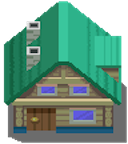
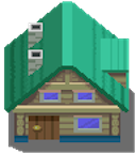
added all location entrance positions

diff --git a/src/covid_smasher.js b/src/covid_smasher.js
@@ -121,22 +121,22 @@ function COVID_SMASHER() {
         ctx.drawImage(home, 0, -48 + locations_module.TOP_BUFFER);
 
         let neighbor = document.getElementById("neighbor");
-        ctx.drawImage(neighbor, 128, -16 + locations_module.TOP_BUFFER);
+        ctx.drawImage(neighbor, 128, -24 + locations_module.TOP_BUFFER);
 
         let city_hall = document.getElementById("city-hall");
         ctx.drawImage(city_hall, 256, -56 + locations_module.TOP_BUFFER);
 
         let store_1 = document.getElementById("store-1");
-        ctx.drawImage(store_1, 512, 16 + locations_module.TOP_BUFFER);
+        ctx.drawImage(store_1, 496, -12 + locations_module.TOP_BUFFER);
 
         let store_2 = document.getElementById("store-2");
-        ctx.drawImage(store_2, 672, -8 + locations_module.TOP_BUFFER);
+        ctx.drawImage(store_2, 666, -8 + locations_module.TOP_BUFFER);
 
         let store_3 = document.getElementById("store-3");
-        ctx.drawImage(store_3, 832, 8 + locations_module.TOP_BUFFER);
+        ctx.drawImage(store_3, 832, -4 + locations_module.TOP_BUFFER);
 
         let store_4 = document.getElementById("store-4");
-        ctx.drawImage(store_4, 992, 32 + locations_module.TOP_BUFFER);
+        ctx.drawImage(store_4, 983, 8 + locations_module.TOP_BUFFER);
 
         let tree_1 = document.getElementById("tree-1");
         ctx.drawImage(tree_1, 1152, 32 + locations_module.TOP_BUFFER);
@@ -214,11 +214,47 @@ function COVID_SMASHER() {
                     if (locations_module.WORLD_MAP[player.y_pos][player.x_pos] === 2) {
                         if (player.x_pos === 1 && player.y_pos === 4) {
                             alert("Arrived home!");
+                        } else if (player.x_pos === 2 && player.y_pos === 4) {
+                            alert("Arrived home!");
                         } else if (player.x_pos === 5 && player.y_pos === 4) {
                             alert("Arrived at Neighbor's house!");
                         } else if (player.x_pos === 12 && player.y_pos === 4) {
                             alert("Arrived at City Hall!");
-                        }
+                        } else if (player.x_pos === 17 && player.y_pos === 4) {
+                            alert("Arrived at Store 1!");
+                        } else if (player.x_pos === 23 && player.y_pos === 4) {
+                            alert("Arrived at Store 2!");
+                        } else if (player.x_pos === 28 && player.y_pos === 4) {
+                            alert("Arrived at Store 3!");
+                        } else if (player.x_pos === 33 && player.y_pos === 4) {
+                            alert("Arrived at Store 4!");
+                        } else if (player.x_pos === 2 && player.y_pos === 13) {
+                            alert("Arrived at Library!");
+                        } else if (player.x_pos === 23 && player.y_pos === 11) {
+                            alert("Arrived at Object Garden!");
+                        } else if (player.x_pos === 27 && player.y_pos === 11) {
+                            alert("Arrived at Cin-n-cout!");
+                        } else if (player.x_pos === 28 && player.y_pos === 11) {
+                            alert("Arrived at Cin-n-cout!");
+                        } else if (player.x_pos === 29 && player.y_pos === 11) {
+                            alert("Arrived at Cin-n-cout!");
+                        } else if (player.x_pos === 32 && player.y_pos === 11) {
+                            alert("Arrived at Foobar!");
+                        } else if (player.x_pos === 37 && player.y_pos === 11) {
+                            alert("Arrived at Game Corner!");
+                        } else if (player.x_pos === 7 && player.y_pos === 22) {
+                            alert("Arrived at High School!");
+                        } else if (player.x_pos === 14 && player.y_pos === 21) {
+                            alert("Arrived at DayJob!");
+                        } else if (player.x_pos === 18 && player.y_pos === 21) {
+                            alert("Arrived at Gymnasium!");
+                        } else if (player.x_pos === 22 && player.y_pos === 21) {
+                            alert("Arrived at Hospital!");
+                        } else if (player.x_pos === 24 && player.y_pos === 21) {
+                            alert("Arrived at College!");
+                        } else if (player.x_pos === 24 && player.y_pos === 22) {
+                            alert("Arrived at College!");
+                        } 
                     }
                     break;
                 default:

diff --git a/src/base_classes/locations.js b/src/base_classes/locations.js
@@ -156,16 +156,16 @@ const WORLD_MAP =
     [1,1,1,1,1,1,1,1,1,1,1,1,1,1,1,1,1,1,1,1,1,1,1,1,1,1,1,1,1,1,1,1,1,1,1,1,1,1,1,1,],
     [1,1,1,1,1,1,1,1,1,1,1,1,1,1,1,1,1,1,1,1,1,1,1,1,1,1,1,1,1,1,1,1,1,1,1,1,1,1,1,1,],
     [1,1,1,1,1,1,1,1,1,1,1,1,1,1,1,1,1,1,1,1,1,1,1,1,1,1,1,1,1,1,1,1,1,1,1,1,1,1,1,1,],
-    [0,2,0,0,0,2,0,0,0,0,0,0,2,0,0,0,0,0,0,0,0,0,0,0,0,0,0,0,0,0,0,0,0,0,0,0,0,0,0,0,],
+    [0,2,2,0,0,2,0,0,0,0,0,0,2,0,0,0,0,2,0,0,0,0,0,2,0,0,0,0,2,0,0,0,0,2,0,0,0,0,0,0,],
     [0,0,0,0,0,0,0,0,0,0,0,0,0,0,0,0,0,0,0,0,0,0,0,0,0,0,0,0,0,0,0,0,0,0,0,0,0,0,0,0,],
     [0,0,0,0,0,0,0,0,0,0,0,0,0,0,0,0,0,0,0,0,0,0,0,0,0,0,0,0,0,0,0,0,0,0,0,0,0,0,0,0,],
     [0,0,0,0,0,0,0,0,0,1,1,1,1,1,1,1,1,1,1,0,0,0,1,1,1,1,1,1,1,1,1,1,1,1,1,1,1,1,1,1,],
     [1,1,1,1,1,0,0,0,0,1,1,1,1,1,1,1,1,1,1,0,0,0,1,1,1,1,1,1,1,1,1,1,1,1,1,1,1,1,1,1,],
     [1,1,1,1,1,0,0,0,0,1,1,1,1,1,1,1,1,1,1,0,0,0,1,1,1,1,1,1,1,1,1,1,1,1,1,1,1,1,1,1,],
     [1,1,1,1,1,0,0,0,0,1,1,1,1,1,1,1,1,1,1,0,0,0,1,1,1,1,1,1,1,1,1,1,1,1,1,1,1,1,1,1,],
+    [1,1,1,1,1,0,0,0,0,1,1,1,1,1,1,1,1,1,1,0,0,0,0,2,0,0,0,2,2,2,0,0,2,0,0,0,0,2,0,0,],
     [1,1,1,1,1,0,0,0,0,1,1,1,1,1,1,1,1,1,1,0,0,0,0,0,0,0,0,0,0,0,0,0,0,0,0,0,0,0,0,0,],
-    [1,1,1,1,1,0,0,0,0,1,1,1,1,1,1,1,1,1,1,0,0,0,0,0,0,0,0,0,0,0,0,0,0,0,0,0,0,0,0,0,],
-    [0,0,0,0,0,0,0,0,0,1,1,1,1,1,1,1,1,1,1,0,0,0,0,0,0,0,0,0,0,0,0,0,0,0,0,0,0,0,0,0,],
+    [0,0,2,0,0,0,0,0,0,1,1,1,1,1,1,1,1,1,1,0,0,0,0,0,0,0,0,0,0,0,0,0,0,0,0,0,0,0,0,0,],
     [0,0,0,0,0,0,0,0,0,0,0,0,0,0,0,0,0,0,0,0,0,0,0,0,0,0,0,0,0,0,0,0,0,0,0,0,0,0,0,0,],
     [0,0,0,0,0,0,0,0,0,0,0,0,0,0,0,0,0,0,0,0,0,0,0,0,0,0,0,0,0,0,0,0,0,0,0,0,0,0,0,0,],
     [1,1,1,1,1,1,1,0,0,0,0,0,0,0,0,0,0,0,0,0,0,0,0,0,0,0,0,0,0,0,0,0,0,0,0,0,0,0,0,0,],
@@ -173,8 +173,8 @@ const WORLD_MAP =
     [1,1,1,1,1,1,1,0,0,0,0,0,1,1,1,1,1,1,1,1,1,1,1,1,1,1,1,1,1,1,1,1,1,1,1,1,1,1,1,1,],
     [1,1,1,1,1,1,1,0,0,0,0,0,1,1,1,1,1,1,1,1,1,1,1,1,1,1,1,1,1,1,1,1,1,1,1,1,1,1,1,1,],
     [1,1,1,1,1,1,1,0,0,0,0,0,1,1,1,1,1,1,1,1,1,1,1,1,1,1,1,1,1,1,1,1,1,1,1,1,1,1,1,1,],
-    [1,1,1,1,1,1,1,0,0,0,0,0,0,0,0,0,0,0,0,0,0,0,0,0,0,1,1,1,1,1,1,1,1,1,1,1,1,1,1,1,],
-    [1,1,1,1,1,1,1,0,0,0,0,0,0,0,0,0,0,0,0,0,0,0,0,0,0,1,1,1,1,1,1,1,1,1,1,1,1,1,1,1,],
+    [1,1,1,1,1,1,1,0,0,0,0,0,0,0,2,0,0,0,2,0,0,0,2,0,2,1,1,1,1,1,1,1,1,1,1,1,1,1,1,1,],
+    [1,1,1,1,1,1,1,2,0,0,0,0,0,0,0,0,0,0,0,0,0,0,0,0,2,1,1,1,1,1,1,1,1,1,1,1,1,1,1,1,],
     [1,1,1,1,1,1,1,0,0,0,0,0,0,0,0,0,0,0,0,0,0,0,0,0,0,1,1,1,1,1,1,1,1,1,1,1,1,1,1,1,],
 ]
 
